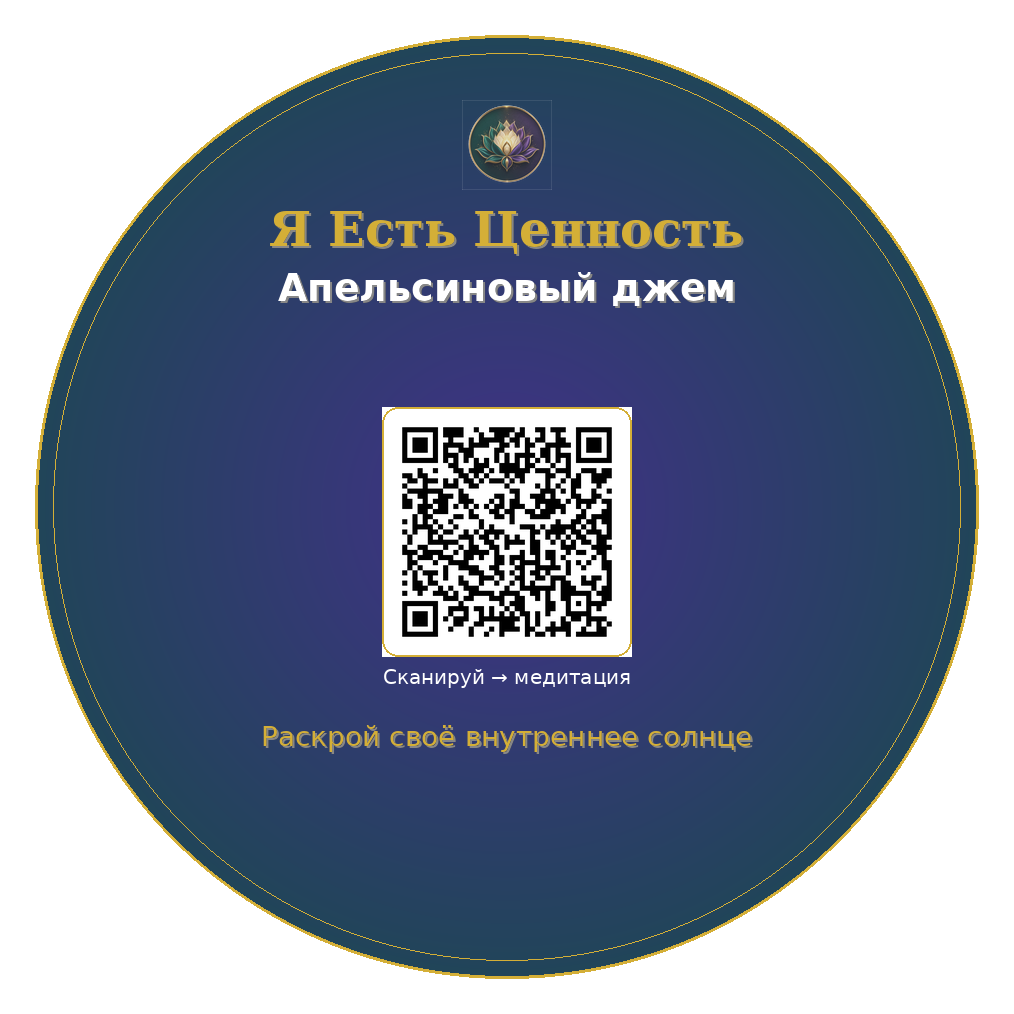
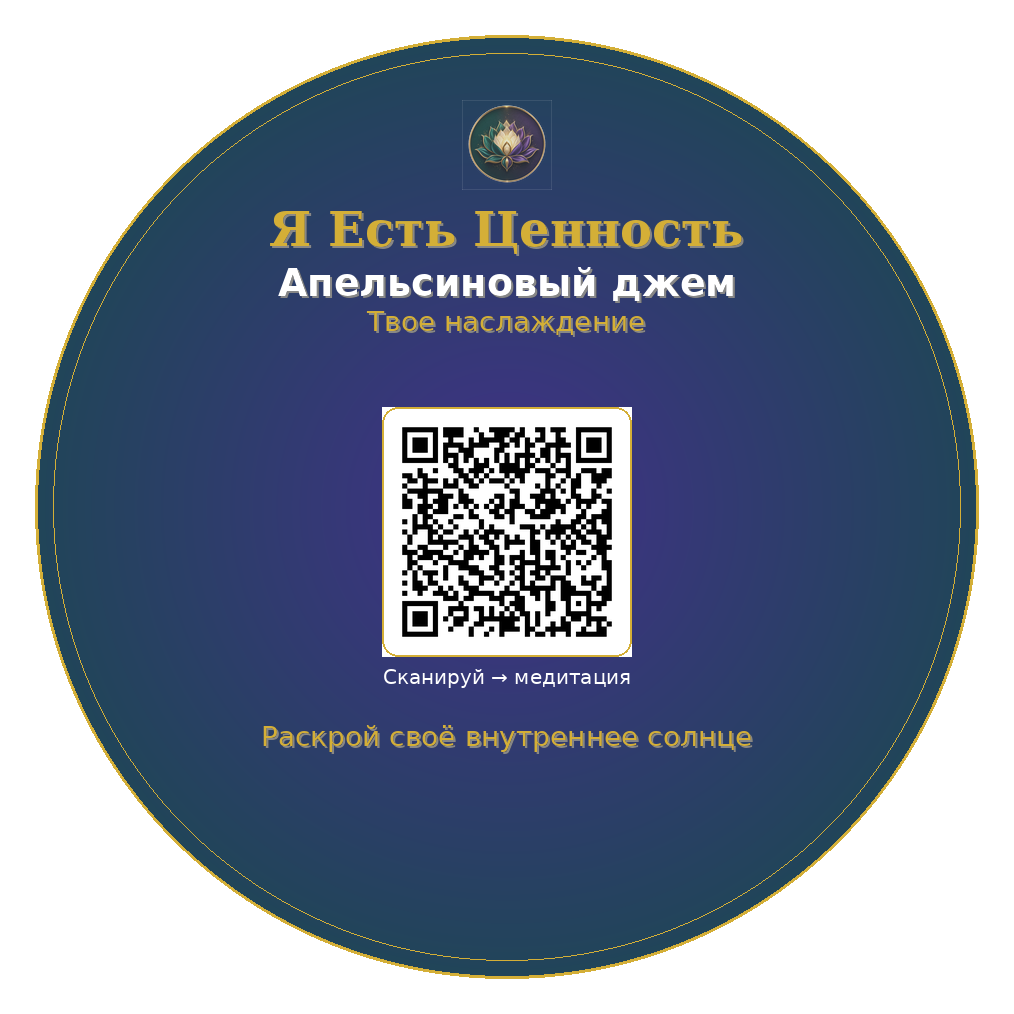
Добавить фразу Твое наслаждение на наклейку апельсинового джема

Changed region(s): [[0.2751, 0.2446, 0.7337, 0.3363]]

diff --git a/design/generate_jar_sticker.py b/design/generate_jar_sticker.py
@@ -120,8 +120,11 @@ def make_sticker(bot_username='iamselfvalue_bot', campaign='orange_jam'):
     brand_y = 200
     draw_text_center(draw, 'Я Есть Ценность', brand_y, brand_font, GOLD)
 
-    flavor_y = 265
+    flavor_y = 260
     draw_text_center(draw, 'Апельсиновый джем', flavor_y, flavor_font, WHITE)
+
+    tagline_y = 305
+    draw_text_center(draw, 'Твое наслаждение', tagline_y, sub_font, GOLD)
 
     sub_y = 720
     draw_text_center(draw, 'Раскрой своё внутреннее солнце', sub_y, sub_font, GOLD)
